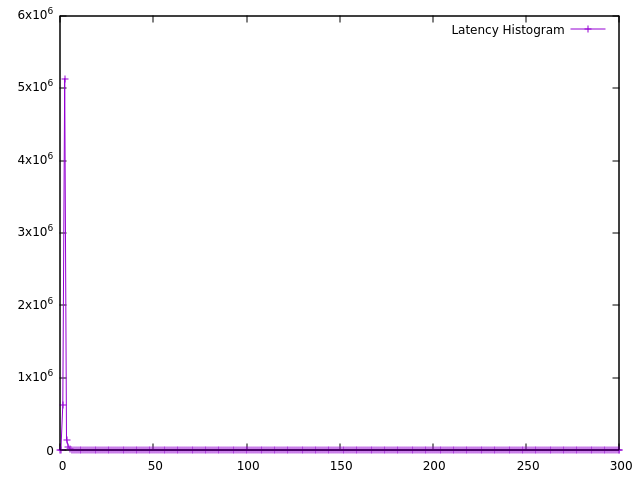
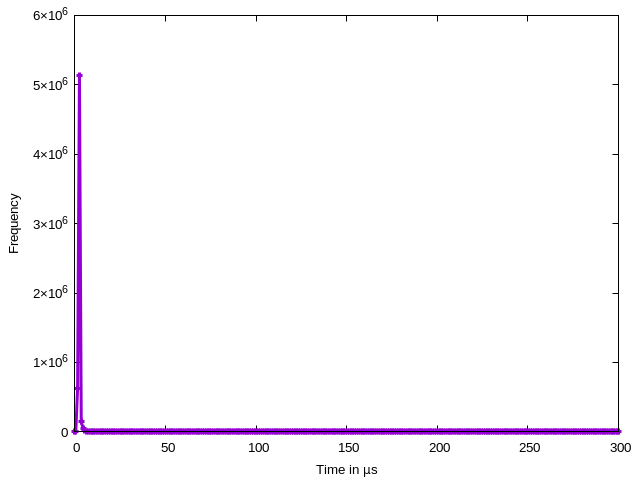
minor

diff --git a/masterthesis-documentation/docs/sigmatek/xenomai/1default/max_latency_default/max_latency_default.py b/masterthesis-documentation/docs/sigmatek/xenomai/1default/max_latency_default/max_latency_default.py
@@ -23,7 +23,7 @@ plt.figure(figsize=(10, 6))
 plt.plot(x, y,'-', color='blue')
 
 # Set the title and labels
-plt.title('Latency of Operating System')
+#plt.title('Latency of Operating System')
 plt.xlabel('Time [s]')
 plt.ylabel('Latency [µs]')
 
@@ -41,8 +41,8 @@ print("The plot was successfully saved to max_latency_default.png")
 # Write the statistics to a file
 with open('max_latency_default_statistics.txt', 'w') as f:
     f.write(f"Average latency: {round(average_y, 2)}us\n") 
-    f.write(f"Max latency: {max_y}us\n")
-    f.write(f"Min latency: {min_y}us\n")
+    f.write(f"Max latency: {round(max_y, 2)}us\n")
+    f.write(f"Min latency: {round(min_y, 2)}us\n")
     f.write(f"Standard Deviation: {round(std_y, 2)}us\n")
 
 # Print a success message

diff --git a/masterthesis-documentation/docs/sigmatek/xenomai/test_xenomai/gnoplot_temp.md b/masterthesis-documentation/docs/sigmatek/xenomai/test_xenomai/gnoplot_temp.md
@@ -1,10 +1,20 @@
 # gnuplot with taskset
 ```bash
-# Calculate statistics
-stats 'gnup.txt' using 2 nooutput
+# Set output to a PNG file
+set terminal pngcairo enhanced font 'Arial,10'
+set output 'gnuplot_max_latency_default.png'
+set encoding utf8
 
-# Plot the data
-plot 'gnup.txt' using 1:2 with linespoints title 'Latency Histogram'
+# Set the title and labels
+#set title "Latency Distribution"
+set xlabel 'Time in {/Symbol=9 m}s'
+set ylabel "Frequency"
+
+# Calculate statistics
+stats 'max_latency_default_10min.txt' using 2 nooutput
+
+# Plot the data with thicker lines
+plot 'max_latency_default_10min.txt' using 1:2 with linespoints linewidth 3 title ''
 ```
 
-![.png](.png)
+[.png](.png)

diff --git a/masterthesis-documentation/docs/sigmatek/xenomai/1default/max_latency_default_10min_gnoplot.md b/masterthesis-documentation/docs/sigmatek/xenomai/1default/max_latency_default_10min_gnoplot.md
@@ -1,10 +1,20 @@
 # gnuplot default
 ```bash
+# Set output to a PNG file
+set terminal pngcairo enhanced font 'Arial,10'
+set output 'gnuplot_max_latency_default.png'
+set encoding utf8
+
+# Set the title and labels
+#set title "Latency Distribution"
+set xlabel 'Time in {/Symbol=9 m}s'
+set ylabel "Frequency"
+
 # Calculate statistics
 stats 'max_latency_default_10min.txt' using 2 nooutput
 
-# Plot the data
-plot 'max_latency_default_10min.txt' using 1:2 with linespoints title 'Latency Histogram'
+# Plot the data with thicker lines
+plot 'max_latency_default_10min.txt' using 1:2 with linespoints linewidth 3 title ''
 ```
 
 ![gnuplot_max_latency_default.png](gnuplot_max_latency_default.png)

diff --git a/masterthesis-documentation/docs/sigmatek/xenomai/0hardware/max_latency_hardware_10min_gnoplot.md b/masterthesis-documentation/docs/sigmatek/xenomai/0hardware/max_latency_hardware_10min_gnoplot.md
@@ -14,7 +14,7 @@ set ylabel "Frequency"
 stats 'max_latency_hardware_10min.txt' using 2 nooutput
 
 # Plot the data with thicker lines
-plot 'max_latency_hardware_10min.txt' using 1:2 with linespoints linewidth 4 title ''
+plot 'max_latency_hardware_10min.txt' using 1:2 with linespoints linewidth 3 title ''
 ```
 
 ![gnuplot_max_latency_hardware.png](gnuplot_max_latency_hardware.png)

diff --git a/masterthesis-documentation/docs/general/timeline.md b/masterthesis-documentation/docs/general/timeline.md
@@ -80,7 +80,7 @@
 | Thursday, 23.05.2024 | reorganize, test Salamander 4 |
 | Friday, 24.05.2024 | QEMU with 2 CPUs |
 | Monday, 27.05.2024 | Write thesis |
-| Tuesday, 28.05.2024 |  |
-| Wednesday, 29.05.2024 |  |
+| Tuesday, 28.05.2024 | Write thesis |
+| Wednesday, 29.05.2024 | Write thesis |
 | Thursday, 30.05.2024 |  |
 | Friday, 31.05.2024 |  |

diff --git a/masterthesis-documentation/docs/sigmatek/salamander4/latency_reduction/latency_reduction_steps.md b/masterthesis-documentation/docs/sigmatek/salamander4/latency_reduction/latency_reduction_steps.md
@@ -146,7 +146,7 @@ sudo kill <pid>
        ```
 
 
-##### Set CPU Affinity of IRQ thread to CPU 0
+#### Set CPU Affinity of IRQ thread to CPU 0
    First, find the process ID (PID) of the IRQ thread for NVME:
    ```
    ps -e | grep 'irq/.*nvme'

diff --git a/masterthesis-documentation/docs/workflow/meetings/richard.md b/masterthesis-documentation/docs/workflow/meetings/richard.md
@@ -159,6 +159,8 @@ https://wiki.linuxfoundation.org/realtime/documentation/technical_details/rcu
 
 
 
-
+RT_Performance_Tuning_Best_Practice_KVM_VM.pdf
+results in xenomai_compare.md
+QEMU with 2 CPUs
 
 ❌✅

diff --git a/masterthesis-documentation/docs/tools/rt-tester/rt-tester/tests/preempt_rt.md b/masterthesis-documentation/docs/tools/rt-tester/rt-tester/tests/preempt_rt.md
@@ -14,4 +14,4 @@ sigma_ibo@sigma-ibo:~$ sudo rt-tester -p 0.1
  console refresh rate: 5 Hz
 
 [13:47:20] delay: 0.0047ms task: 0.0046ms^C
-``
+```
